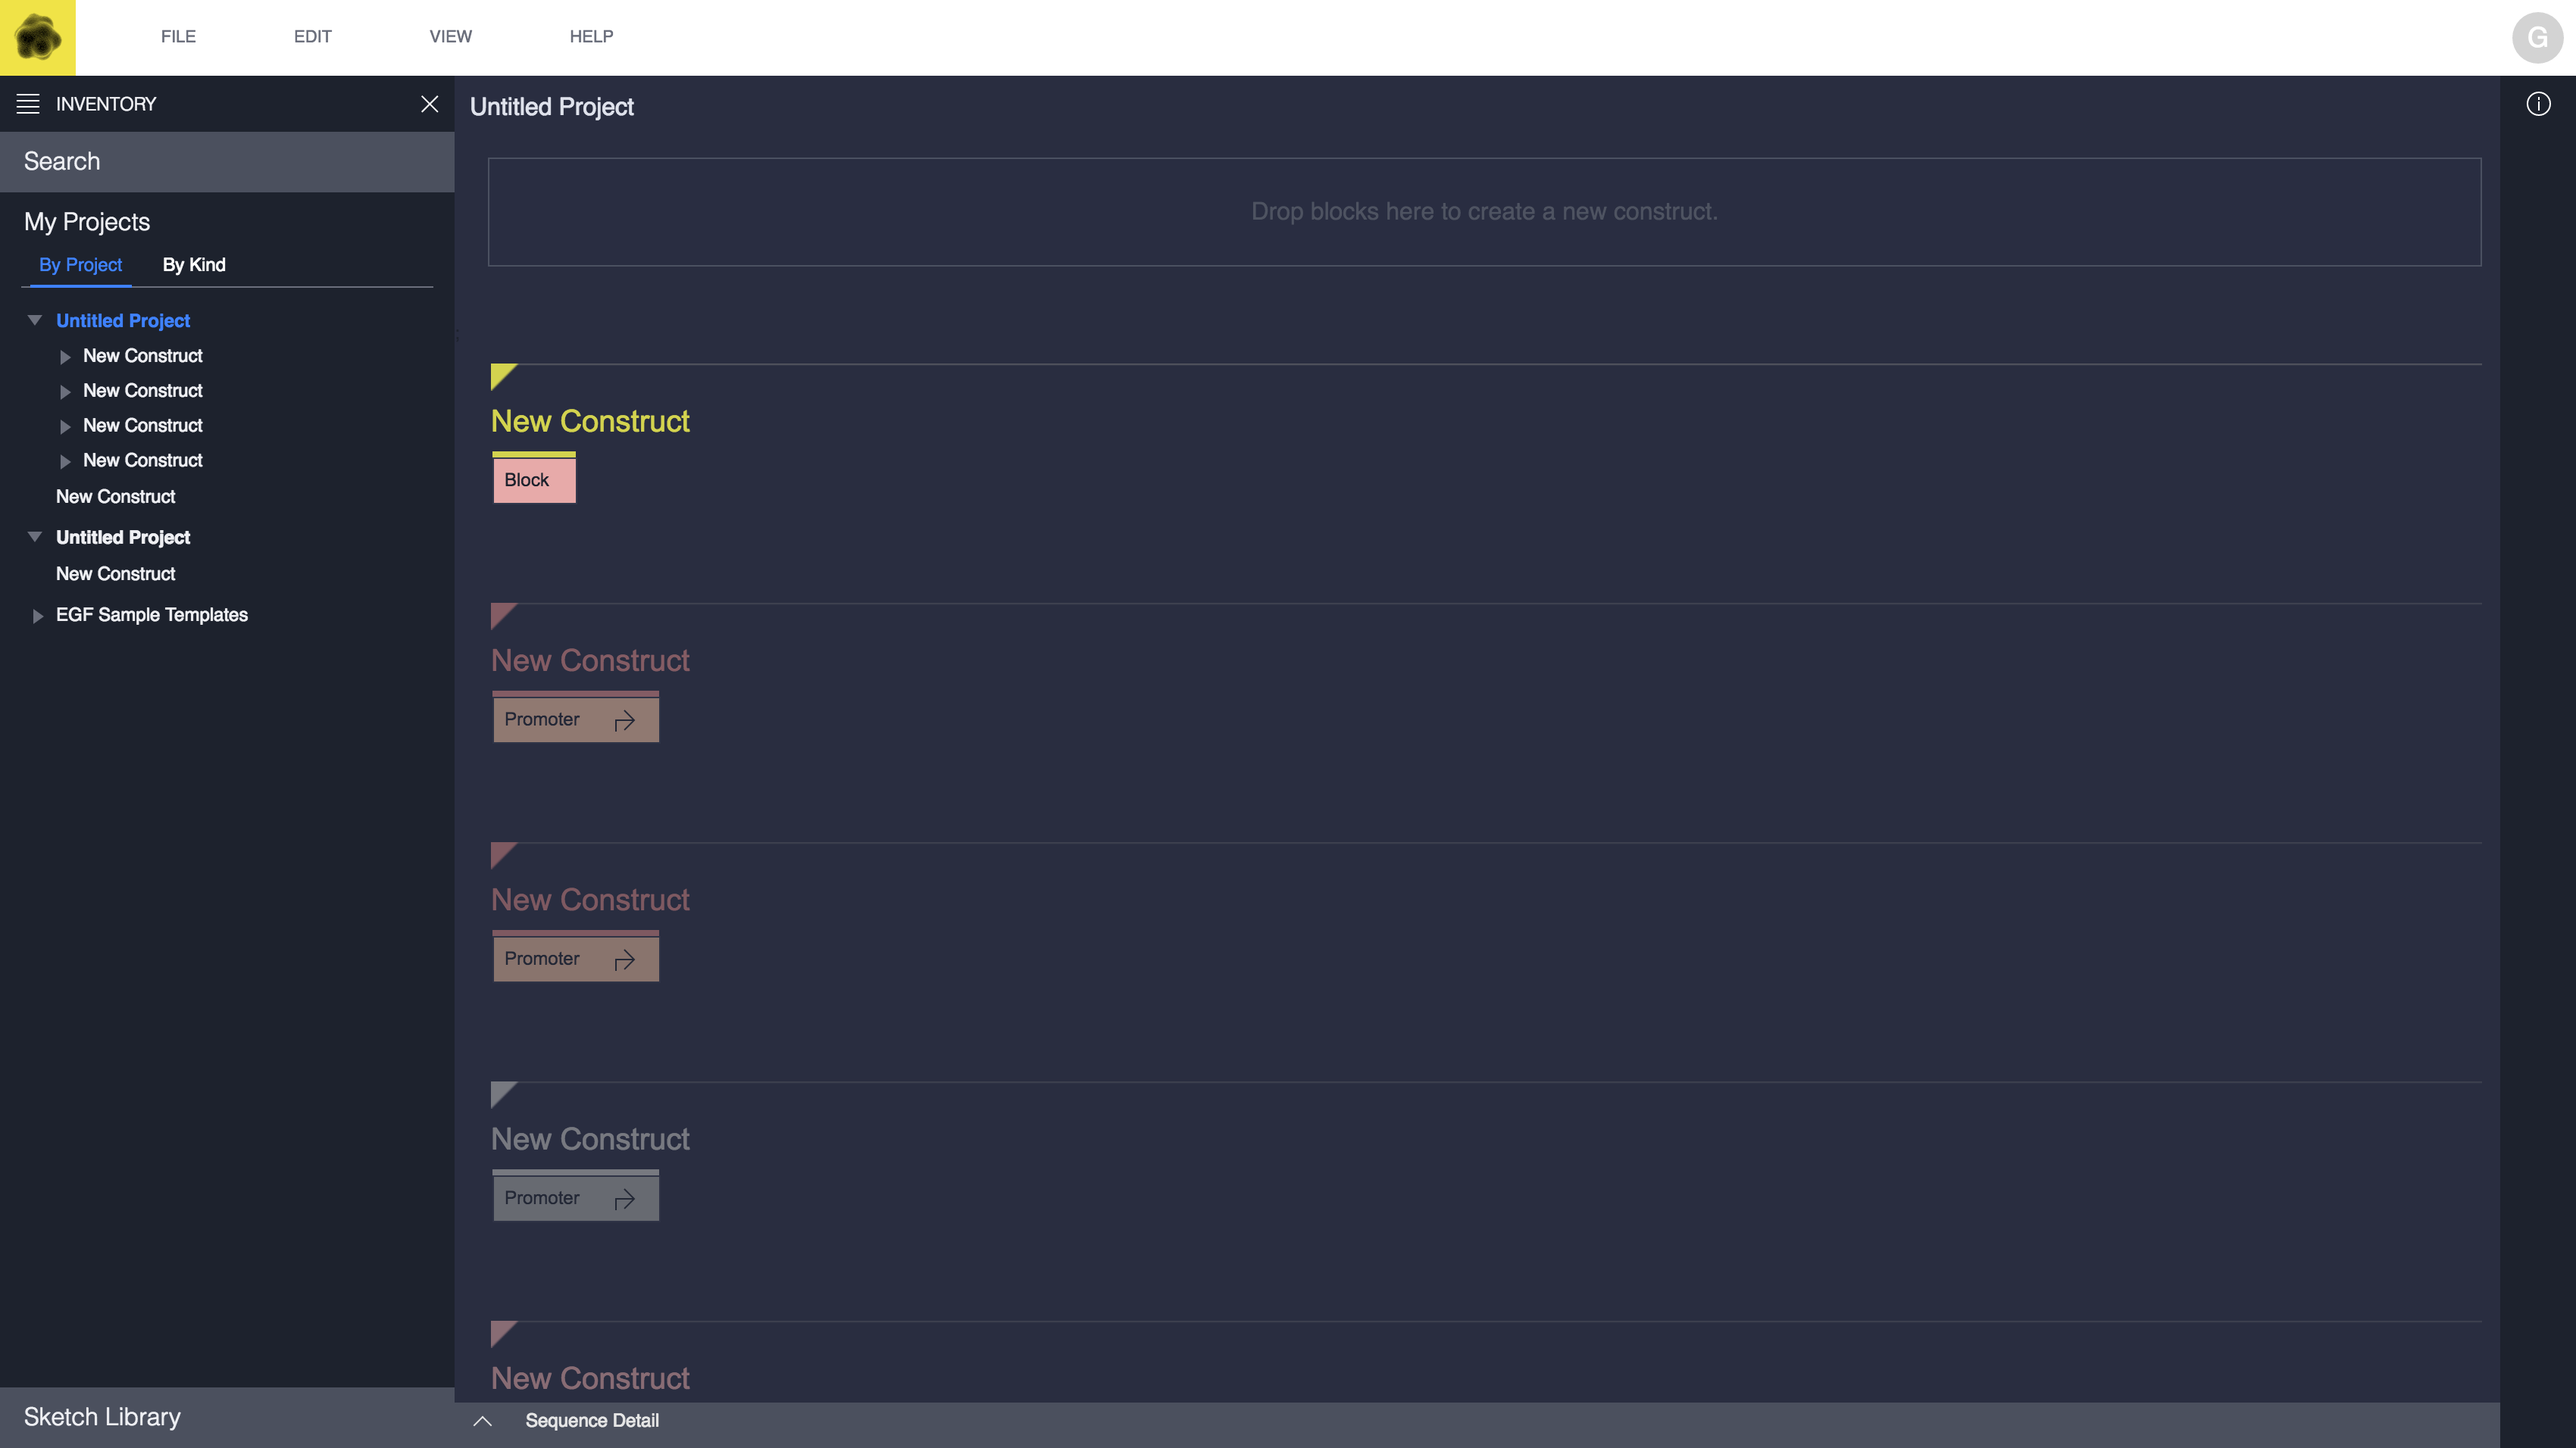
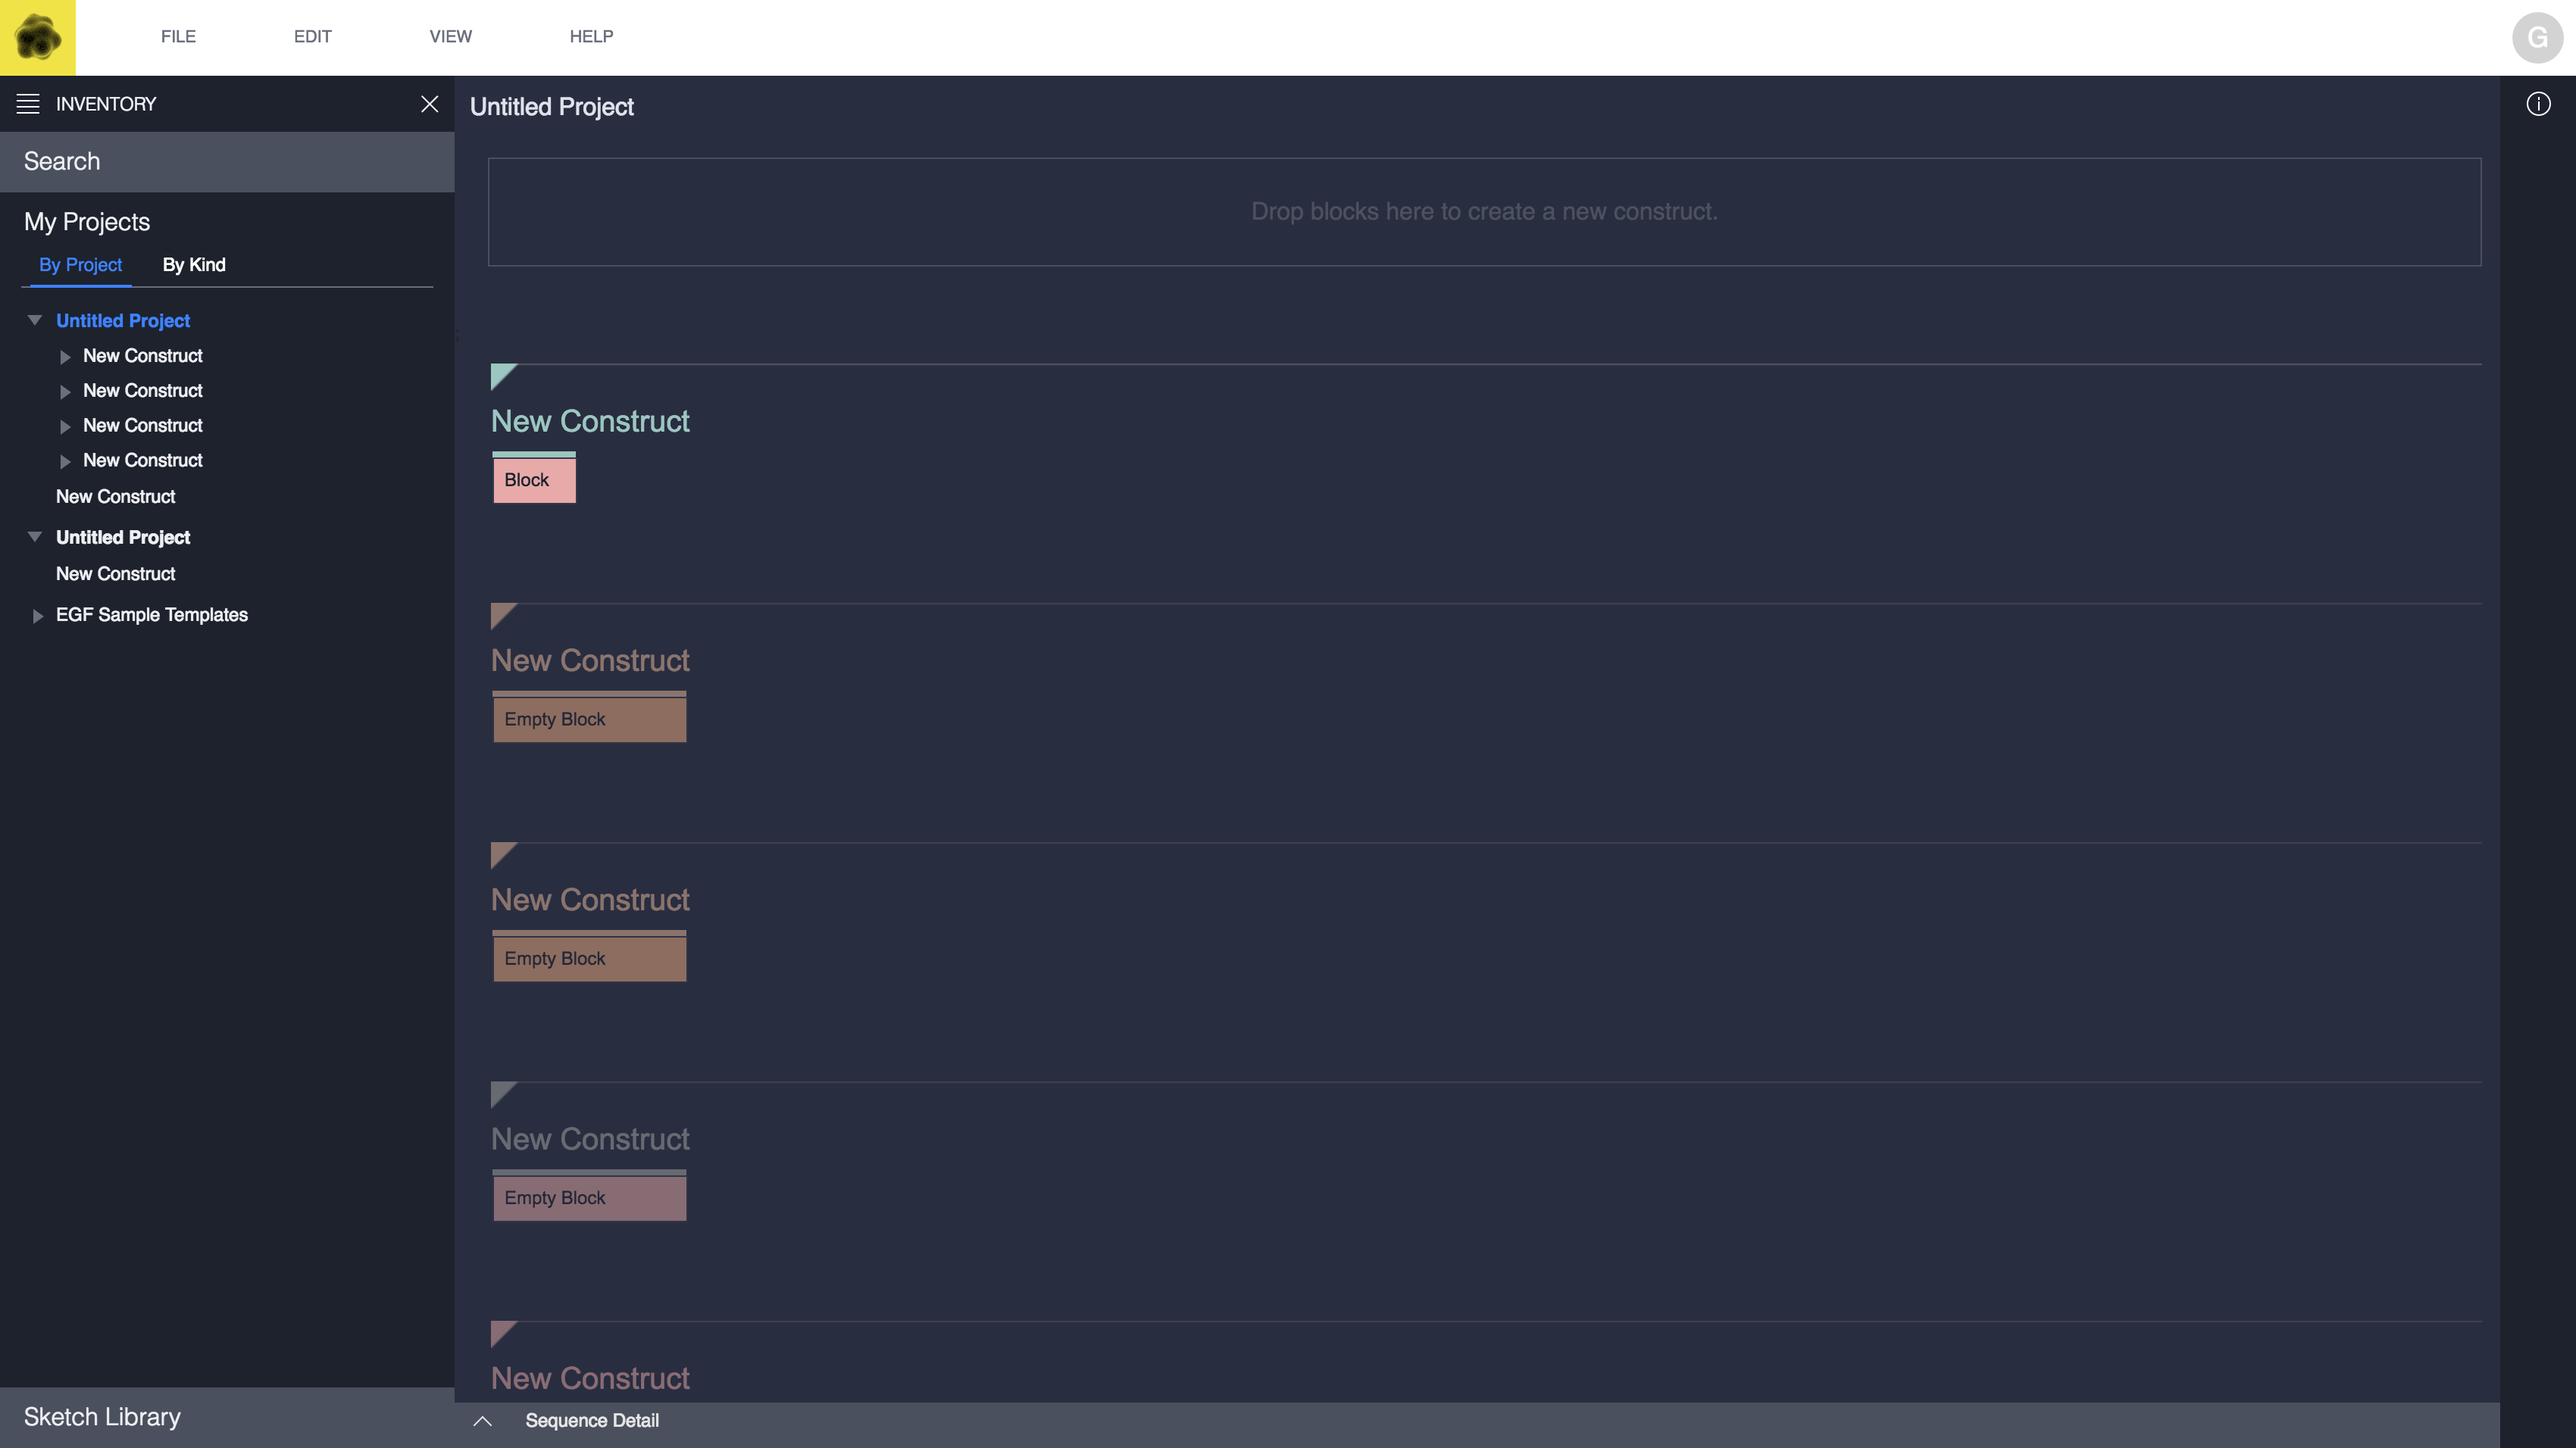
add empty block as an available sbol type, remove the old no symbol option from the picker ( projects with that type will still load ). Update tests and image tests

diff --git a/src/components/ui/SymbolPicker.js b/src/components/ui/SymbolPicker.js
@@ -60,8 +60,7 @@ export default class SymbolPicker extends Component {
 
   render() {
     const { current, readOnly, onSelect } = this.props;
-    const noSymbol = 'noSymbol';
-    const noSymbolText = 'No Symbol';
+    const noSymbol = 'emptyBlock';
     const currentSymbol = current || ((current === false) ? null : noSymbol);
 
     return (
@@ -88,13 +87,6 @@ export default class SymbolPicker extends Component {
                                     onClick={() => !readOnly && onSelect(id)}
                 />);
               })}
-              <PickerItem isCurrent={!current}
-                          name={noSymbolText}
-                          svg={noSymbol}
-                          onMouseEnter={() => this.onMouseEnter(noSymbolText)}
-                          onMouseOut={(evt) => evt.stopPropagation()}
-                          onClick={() => !readOnly && onSelect(null)}
-              />
             </div>
           </div>
         )}

diff --git a/src/inventory/roles.js b/src/inventory/roles.js
@@ -14,6 +14,7 @@ See the License for the specific language governing permissions and
 limitations under the License.
 */
 export const symbolMap = {
+  emptyBlock: 'Empty Block',
   promoter: 'Promoter',
   cds: 'CDS',
   terminator: 'Terminator',
